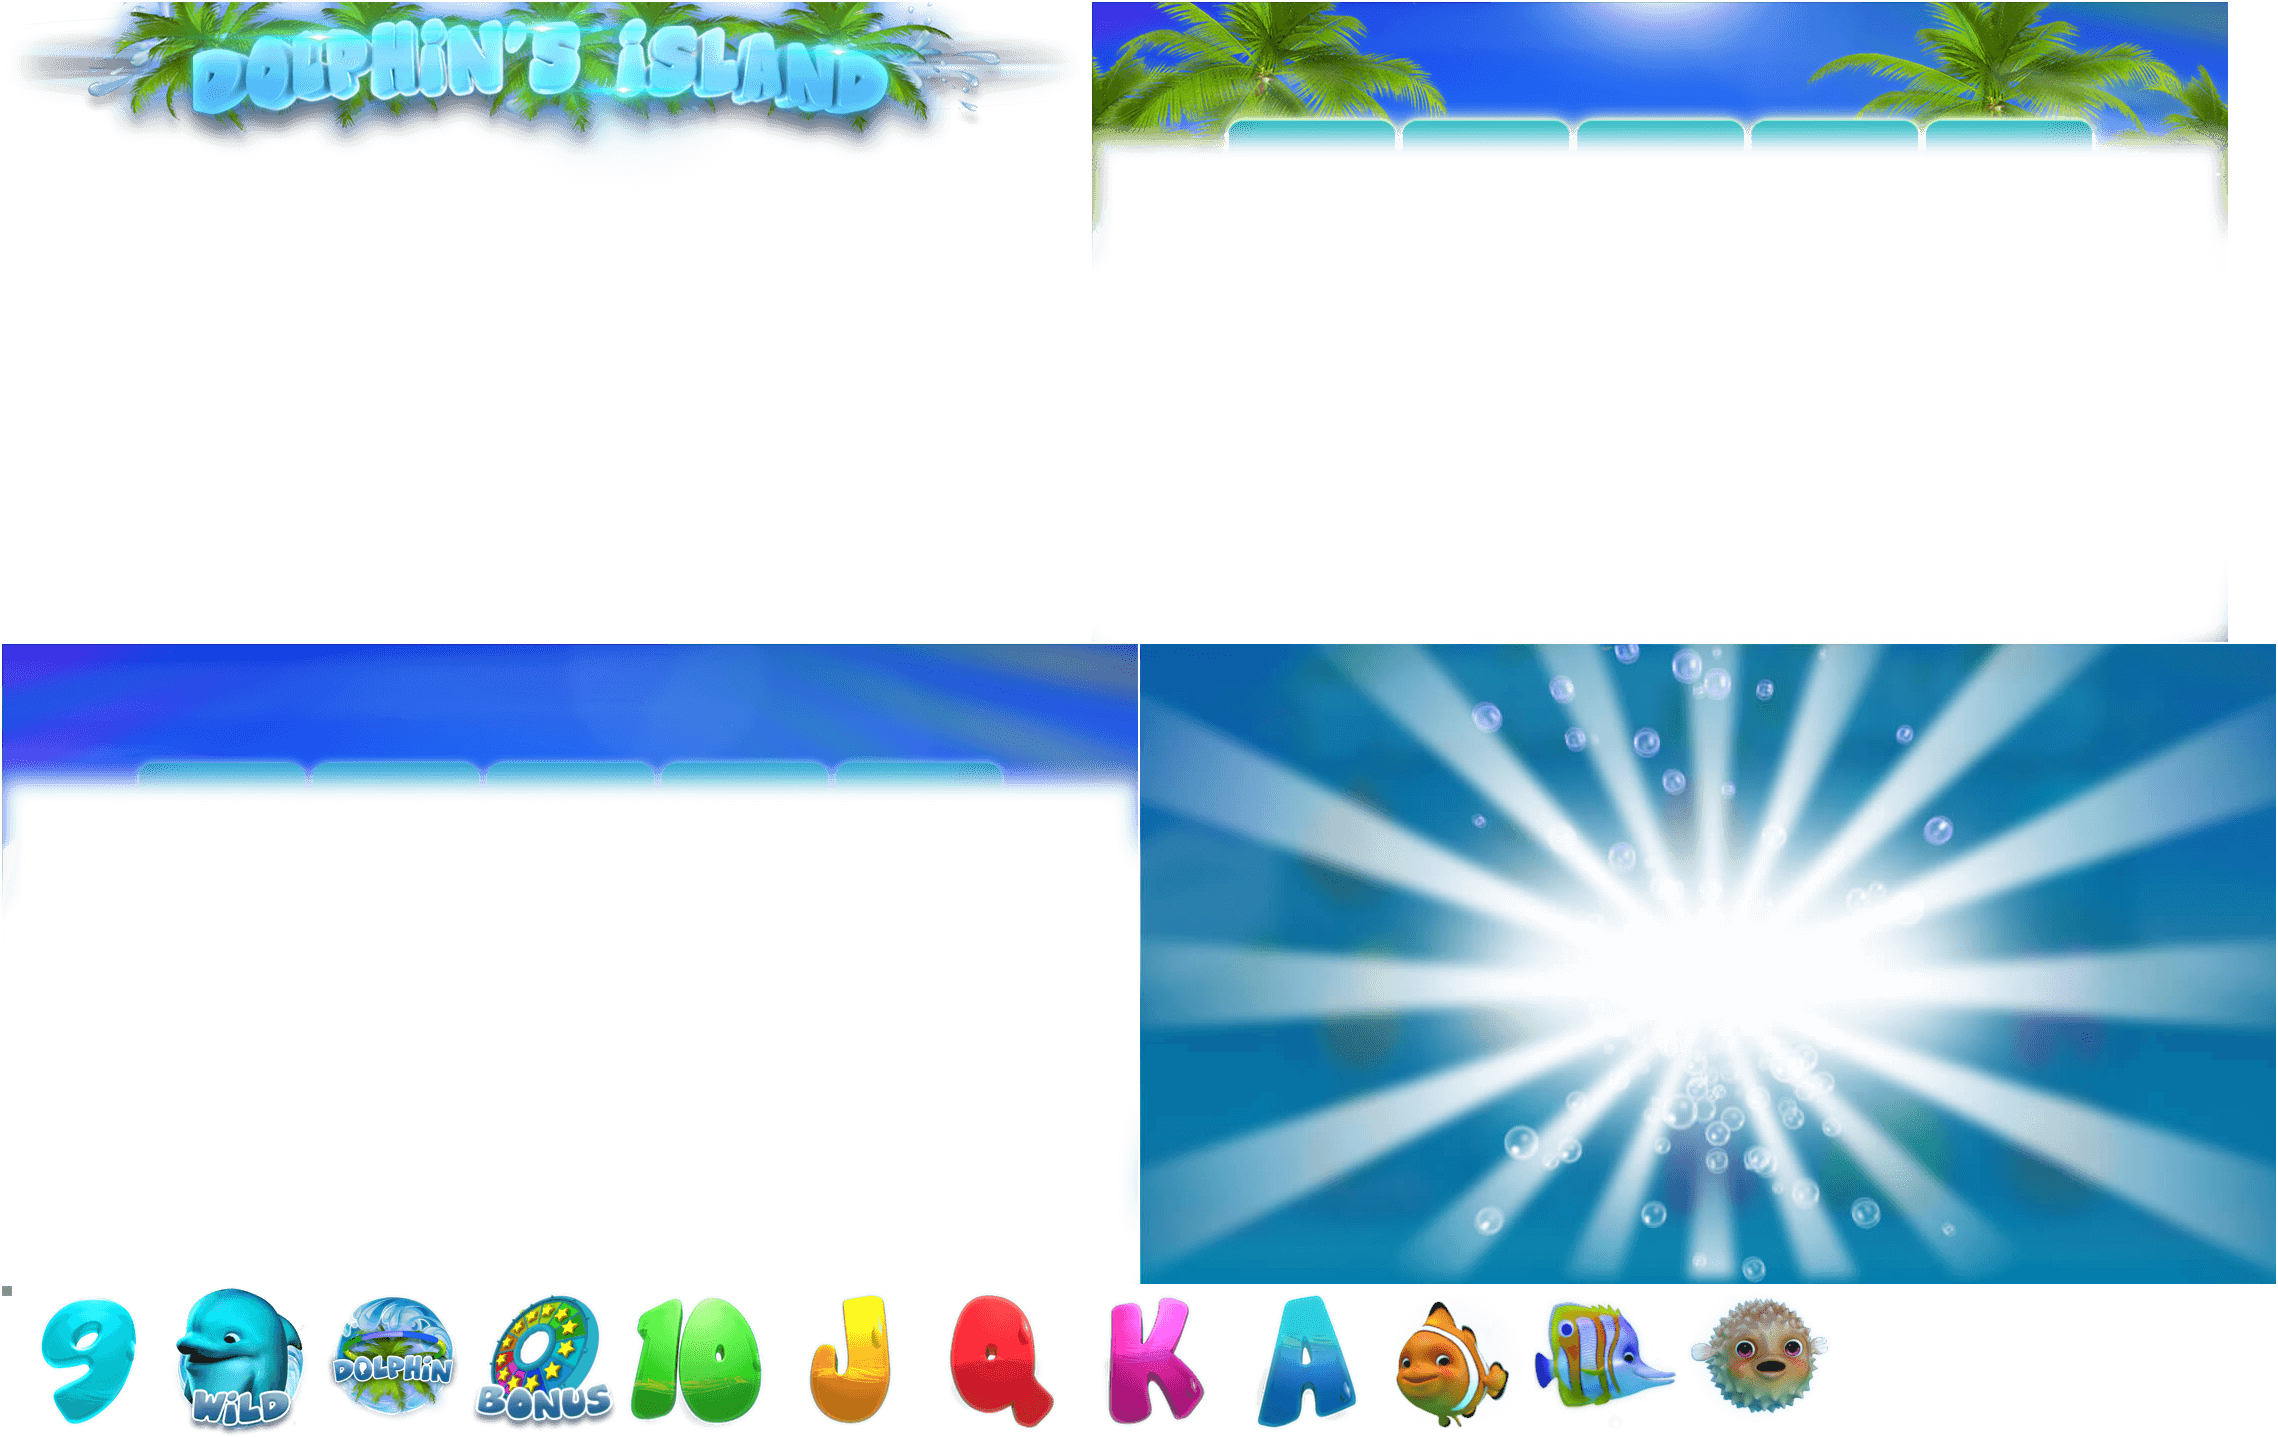
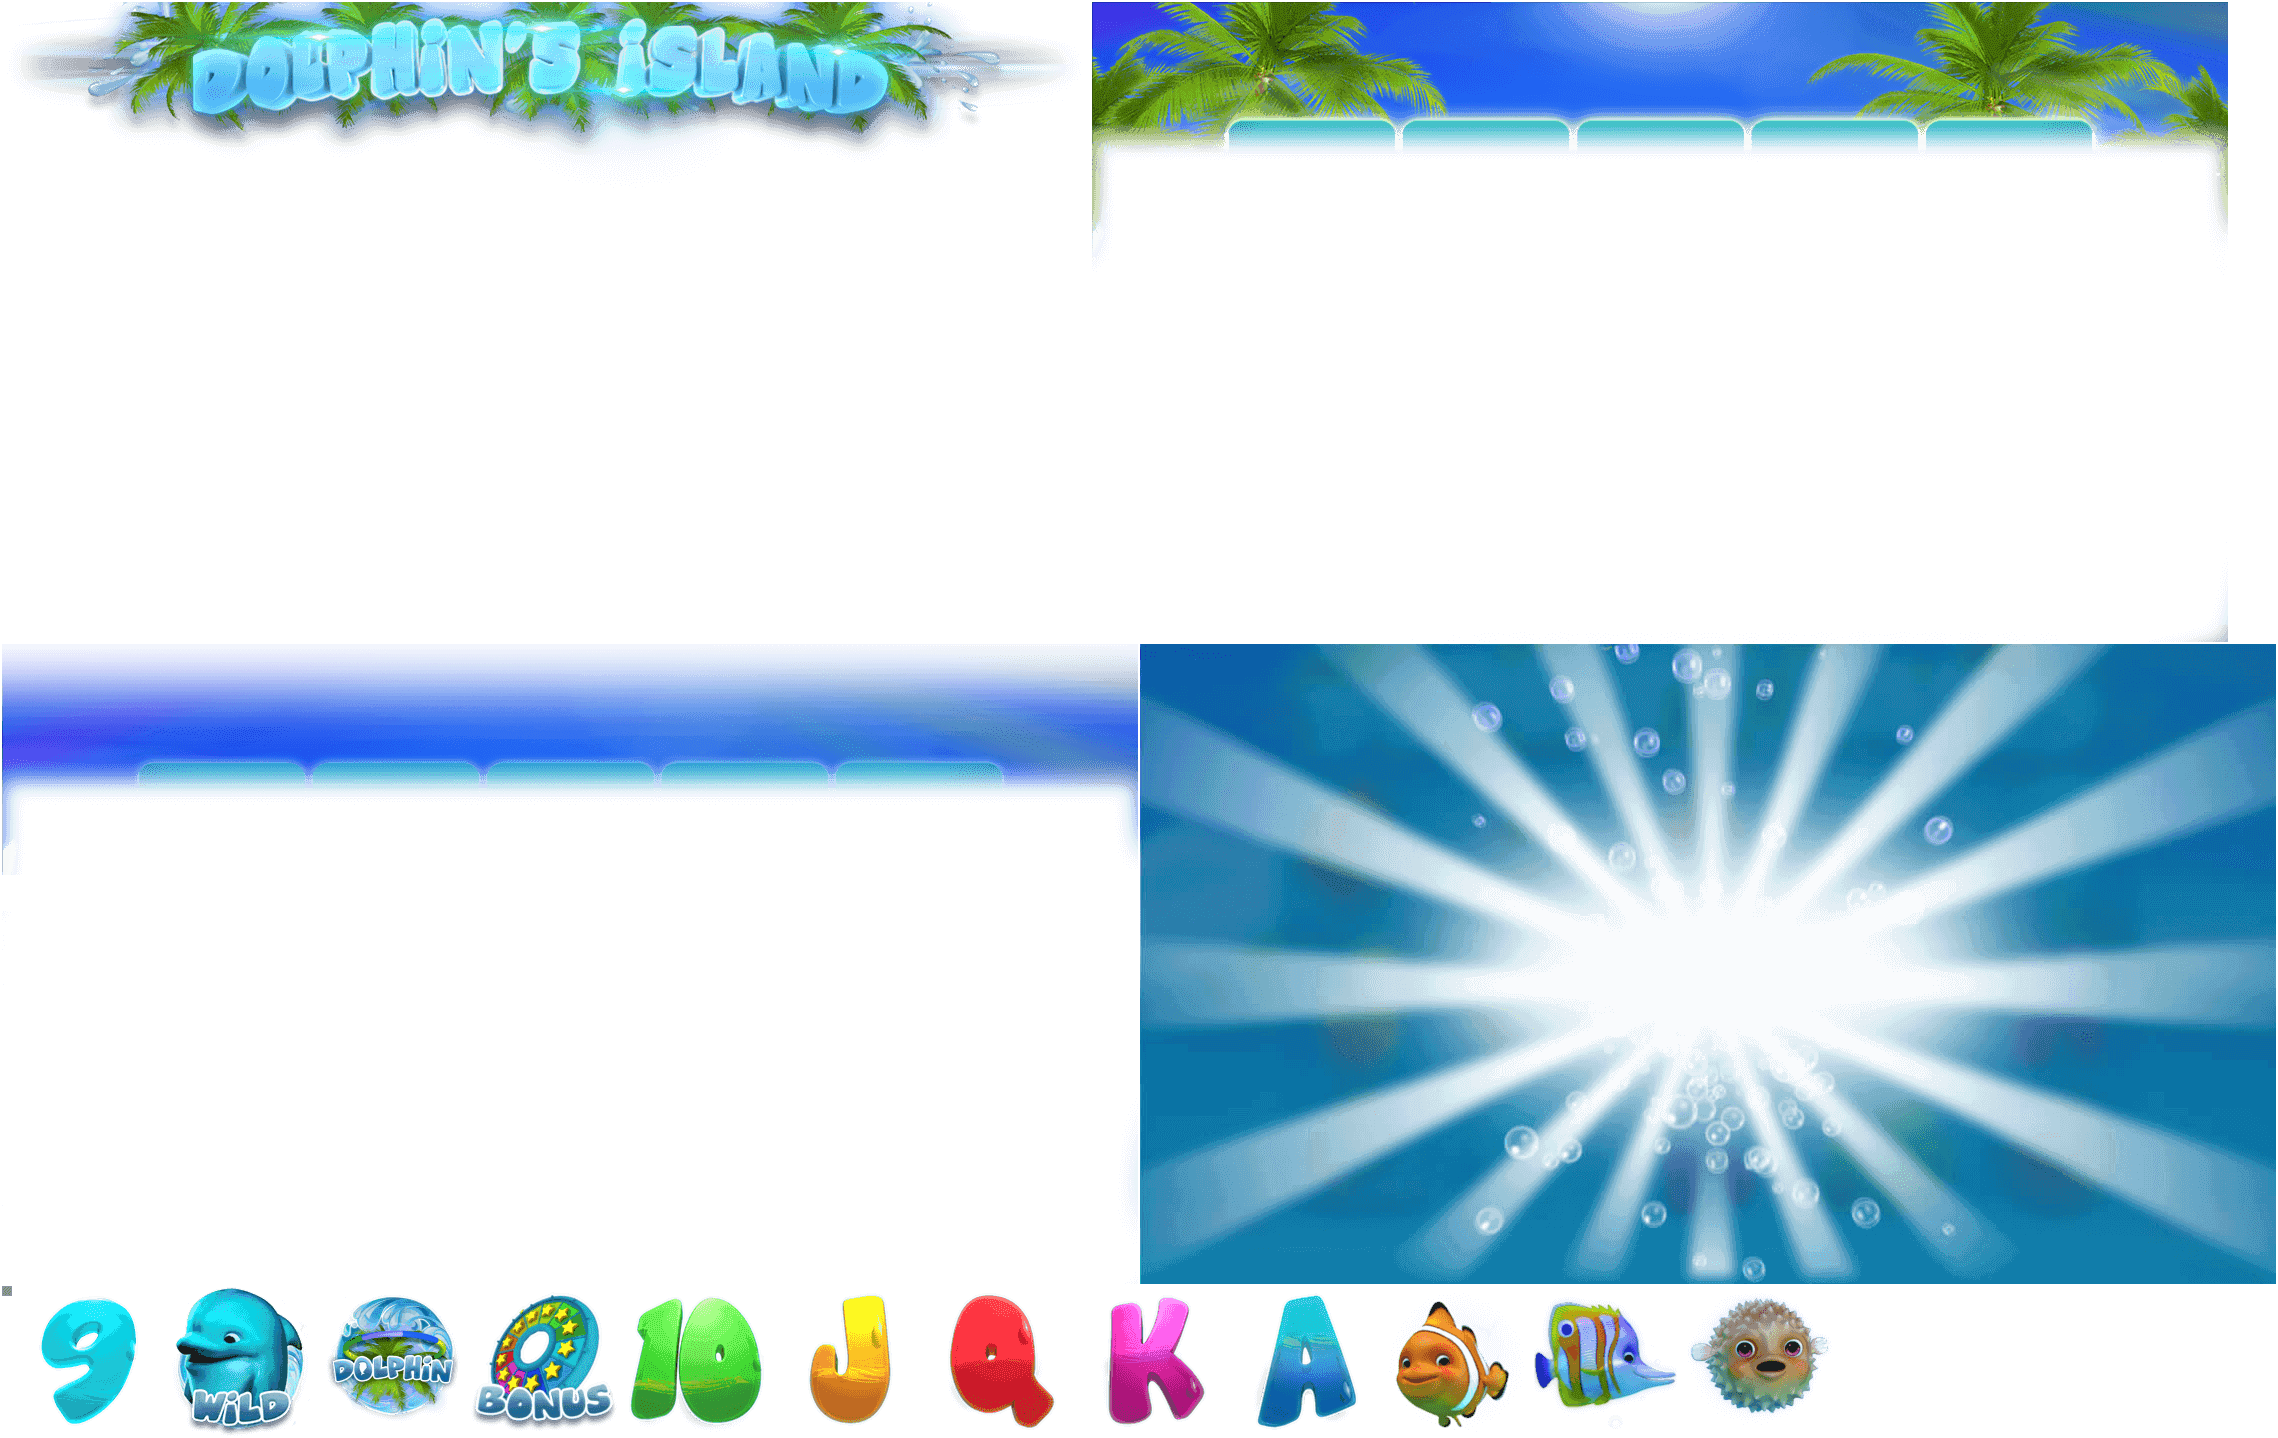
Adding game play

Changed region(s): [[0.0, 0.4284, 0.4987, 0.5202], [0.561, 0.8873, 0.5922, 0.9485], [0.0935, 0.9485, 0.1247, 0.9791]]

diff --git a/src/src/Game.js b/src/src/Game.js
@@ -24,12 +24,24 @@ Game.prototype.setup = function(){
 		var _SW = this.SW;
 		var _SH = this.SH;
     
+        // scene for gameplay
         var sc1 = new PIXI.Container();
+        sc1.name = "scene1";
         _st.addChild(sc1);
         sc1.alpha = 0;
-    
+
+        var sc3 = new PIXI.Container();
+        sc3.name = "scene3";    
+        _st.addChild(sc3);    
+        
+        // scene for score
         var sc2 = new PIXI.Container();
-        _st.addChild(sc2);    
+        sc2.name = "scene2";    
+        _st.addChild(sc2);
+    
+
+    
+    
     
         this.addScene = function() {
             
@@ -53,6 +65,7 @@ Game.prototype.setup = function(){
             overlay2.y = 420;
             
             var logo = utils.addAtlasSprite("Logo.png");
+            logo.name = "logo";
             utils.scaleToStageW(logo,_SW)	
 
             var spin = new PIXI.Sprite(this._rs.spin.texture);
@@ -124,9 +137,7 @@ Game.prototype.setup = function(){
             
         
             // blur game scene
-            var blurf1 = new PIXI.filters.BlurFilter();
-            blurf1.blur = 0;
-            sc1.filters = [blurf1]; 
+            sc1.filters = [styles.blurf1]; 
             
             var c1 = sc1;
             var spin = utils.getSpriteByName(c1,"spin");
@@ -160,6 +171,9 @@ Game.prototype.setup = function(){
             award.alpha = 0;            
             sc2.addChild(award);
             
+            // capture scene
+            utils.capturePos(game.stage.getChildAt(0));
+            
             // animate transition in
             var tl = new TimelineMax();
             
@@ -183,17 +197,68 @@ Game.prototype.setup = function(){
             
         }
         
+        this.clearScoreScene = function(ar) {
+            console.log('clear')
+            for(var i=0; i<ar.length; i++) {
+                var r = ar[i].destroy();
+            }
+            
+        }
+        
+        this.showItems = function() {
+
+          for(var i=0; i <5; i++) {
+              
+                var n = Math.ceil(Math.random()*12);
+                var r = 'symbol'+n+'.png';
+
+                var s = utils.addAtlasSprite(r);
+                s.scale.x = 0.65;
+                s.scale.y = s.scale.x;
+                s.dscale = s.scale;
+                s.anchor.set(0.5);
+                s.x = 160 + (i * 120);
+                s.y = 215;
+              
+                sc3.addChild(s);
+                
+                TweenLite.from(s.scale, 0.5, {y:-s.dscale, x:-s.dscale});
+                
+                TweenLite.from(s.scale, 0.5, {y:0, x:0}); 
+                
+            }            
+            
+        }
+        
+        
         this.backToGame = function() {
             
             // hide the score
-            
             // build a game play scene again
-            
             // launch game play 
+            // animate transition in
             
+            var tl = new TimelineMax();
             
+            var spin = utils.getSpriteByName(sc1,"spin");
+            var overlay1 = utils.getSpriteByName(sc1,"overlay1");
+            var overlay2 = utils.getSpriteByName(sc1,"overlay2");
+            var bg1 = utils.getSpriteByName(sc1,"bg1");
+            var msg1 = utils.getSpriteByName(sc2,"msg1");
+            var msg2 = utils.getSpriteByName(sc2,"msg2");
+            var award = utils.getSpriteByName(sc2,"award");
             
+            tl.to(spin,0.4, {alpha:spin.oalpha},"back+=0")
             
+            .to(overlay1,0.5, {y:overlay1.oy,alpha:overlay1.oalpha},"back+=0")
+            .to(overlay2,0.5, {y:overlay2.oy,alpha:overlay2.oalpha},"back+=0")            
+            .to(bg1.scale, 3, {x:bg1.oscale.x, y:bg1.oscale.y},"back+=0")
+            .to(bg1, 1, {width:bg1.owidth,height:bg1.oheight},"back+=0")
+            
+            .to(msg1, 2, {x:-_SW+100,ease: Elastic.easeInOut.config(1, 1)}, "back+=0")
+            .to(award, 1.5, {x:-_SW+100,ease: Elastic.easeInOut.config(1, 1)},"back+=0.1")
+            .to(msg2, 1, {x:-_SW+100,ease: Elastic.easeInOut.config(1, 1)}, "back+=0.2")
+            .addCallback(function() { this.clearScoreScene([msg1,msg2,award]); }.bind(this), "back+=2.5")
             
             
         }

diff --git a/src/src/Data.js b/src/src/Data.js
@@ -14,19 +14,21 @@ function Data() {
     this.msg1 = "You are the winner";
     this.msg2 = "Points"
     
+    this.sc = {} 
+    
     this.items = [
-        {id:0, name:"9", msg1: "Just nine points", points:9, basket:40},
-        {id:1, name:"Wild", msg1: "This is Wild", points:100, basket:20},
-        {id:2, name:"Dolphin", msg1: "This is amazin Dolphin", points:200, basket:4},
-        {id:3, name:"Bonus", msg1: "You have a luck!", points:10000, basket:2},
-        {id:4, name:"10", msg1: "Just TEN points", points: 10, basket:100},
-        {id:5, name:"J", msg1: "J like J", points:20, basket:20},
-        {id:6, name:"Q", msg1: "Q like Q", points:30, basket:20},
-        {id:7, name:"K", msg1: "Just OK?", points:50, basket:10},
-        {id:8, name:"A", msg1: "A is a for loosers", points:0, basket:60},
-        {id:9, name:"Neo", msg1: "Simple fish", points:10000, basket:3},
-        {id:10, name:"Dora", msg1: "Crazy fish", points:5000, basket:3},
-        {id:11, name:"Sting Fish", msg1: "Can be dangerous", points:2000, basket:3}       
+        {id:1, name:"9", msg1: "Just nine points", points:9, basket:40},
+        {id:2, name:"Wild", msg1: "This is Wild", points:100, basket:20},
+        {id:3, name:"Dolphin", msg1: "This is amazin Dolphin", points:200, basket:4},
+        {id:4, name:"Bonus", msg1: "You have a luck!", points:10000, basket:2},
+        {id:5, name:"10", msg1: "Just TEN points", points: 10, basket:100},
+        {id:6, name:"J", msg1: "J like J", points:20, basket:20},
+        {id:7, name:"Q", msg1: "Q like Q", points:30, basket:20},
+        {id:8, name:"K", msg1: "Just OK?", points:50, basket:10},
+        {id:9, name:"A", msg1: "A is a for loosers", points:0, basket:60},
+        {id:10, name:"Neo", msg1: "Simple fish", points:10000, basket:3},
+        {id:11, name:"Dora", msg1: "Crazy fish", points:5000, basket:3},
+        {id:12, name:"Sting Fish", msg1: "Can be dangerous", points:2000, basket:3}       
     ]
     
 }

diff --git a/src/src/Utils.js b/src/src/Utils.js
@@ -43,6 +43,24 @@ Utils.prototype.getSound = function (id) {
     return r;
 }
 
+Utils.prototype.capturePos = function (c) {
+    //console.log(c.name)
+    for(var i=0; i<c.children.length; i++) {
+        var r = c.getChildAt(i);
+        r.ox = r.x;
+        r.oy = r.y;
+        r.owidth = r.width;
+        r.oheight = r.height;
+        r.oscale = r.scale;
+        r.orotation = r.rotation;
+        r.oalpha = r.alpha;
+        //console.log(i,r.name,r.x,r.y,r.width,r.height,r.rotation,r.alpha,r.scale.x,r.scale.y);
+    }
+}
+
+
+
+
 Utils.prototype.playMusic = function () {
     var music1 = this._rs.music.sound;
     music1.play();

diff --git a/src/src/Loader.js b/src/src/Loader.js
@@ -3,21 +3,16 @@ var aext = utils.ifmp3();
 
 var styles = new Styles();
 var data = new Data();
-
 var game = new Game();
 
+var renderer = new PIXI.Application(800, 480, {forceCanvas: false, backgroundColor: 0x000033});
 
-
-var renderer = new PIXI.Application(800, 480, {
-                forceCanvas: false,
-                backgroundColor: 0x000033
-            });
 
 document.getElementById('gameContainer').appendChild(renderer.view);
 
 game.stage = renderer.stage;
 
-// load textures and audio
+
 PIXI.loader
     .add("music", "./assets/audio/05-Binrpilot-Underground"+aext)
     .add("sound1", "./assets/audio/ToneWobble"+aext)

diff --git a/src/src/Styles.js b/src/src/Styles.js
@@ -2,6 +2,11 @@
  *Class Styles
  */
 function Styles() {
+  
+    // blur game scene
+    this.blurf1 = new PIXI.filters.BlurFilter();
+    this.blurf1.blur = 0;    
+    
     
 }
 
